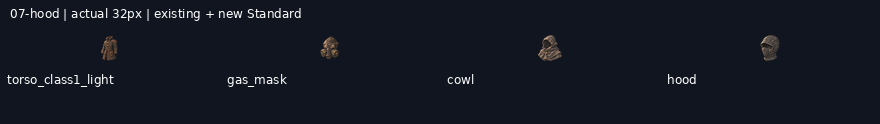
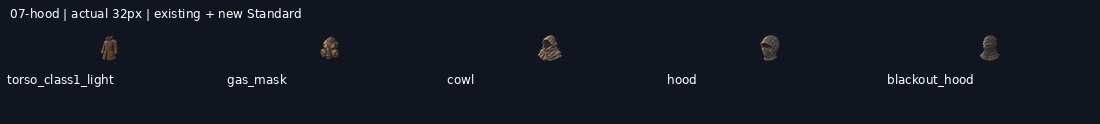
art: draw armour-blackout_hood Standard inventory painting

diff --git a/art/_archive/gear/2026-11-19-melee-armour/HANDOFF.md b/art/_archive/gear/2026-11-19-melee-armour/HANDOFF.md
@@ -1,6 +1,6 @@
 # Files05 and07 — 19 November gear handoff
 
-Branch: `art/2026-11-19-melee-armour`, from develop `2020b5c2`. **28/39 Standard paintings delivered.** Next: `armour-blackout_hood`. Exact remaining order is progress.json / queue.json.
+Branch: `art/2026-11-19-melee-armour`, from develop `2020b5c2`. **29/39 Standard paintings delivered.** Next: `armour-spotters_monocle`. Exact remaining order is progress.json / queue.json.
 
 This worker claims file05 (19 melee) and file07 (6 shields +14 armour). Another GPT owns files01–04. Files06/08/09/10 are unclaimed by this worker. No work on the other GPT’s files, title screen, old icons or pet.
 
